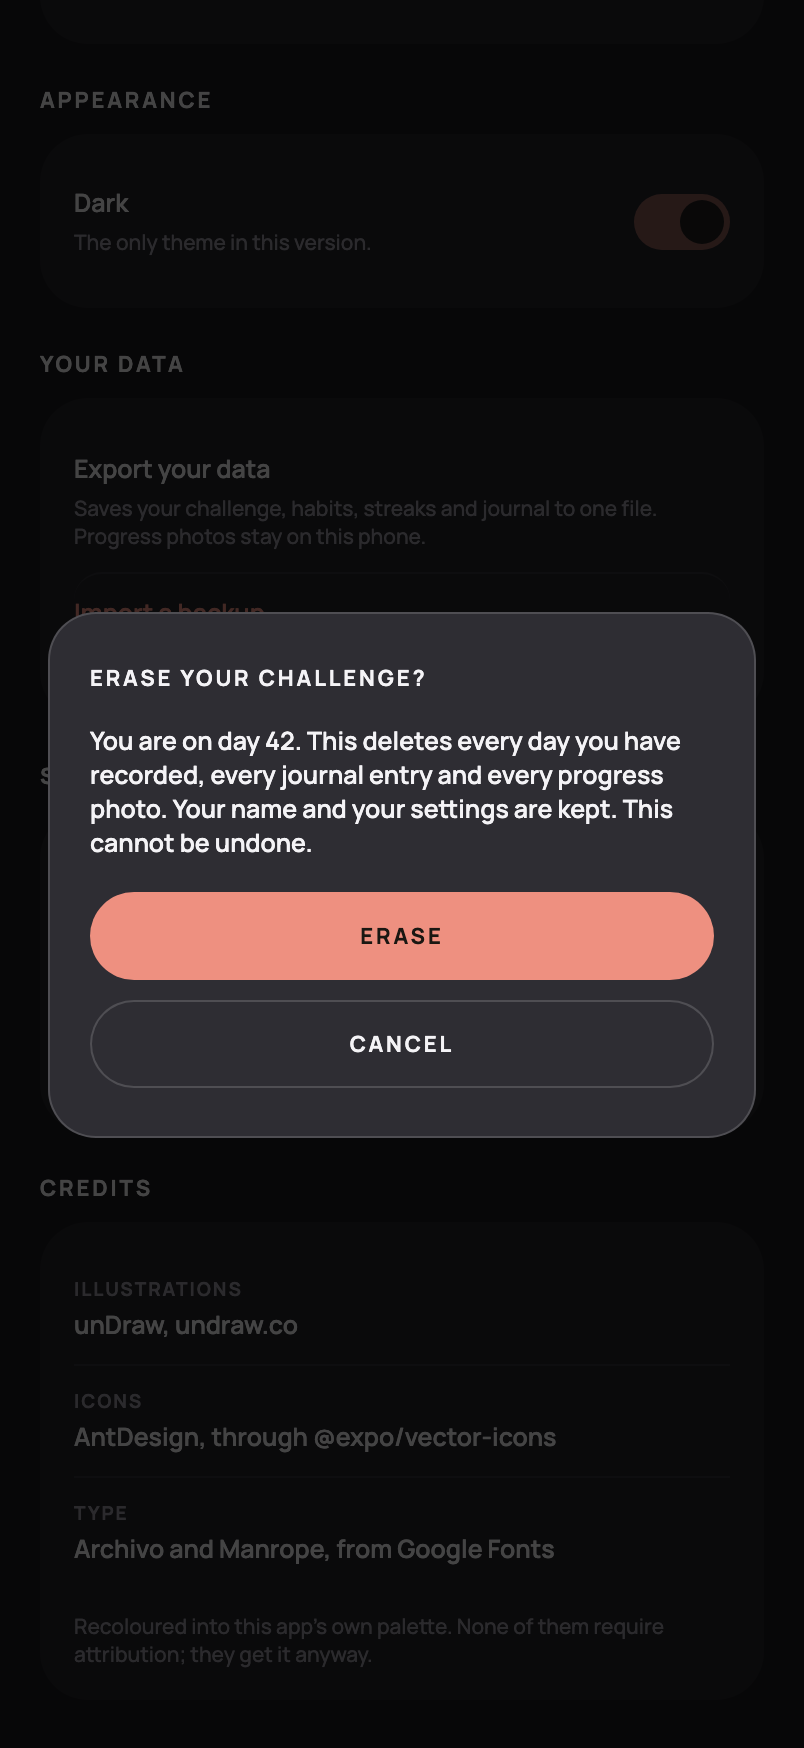
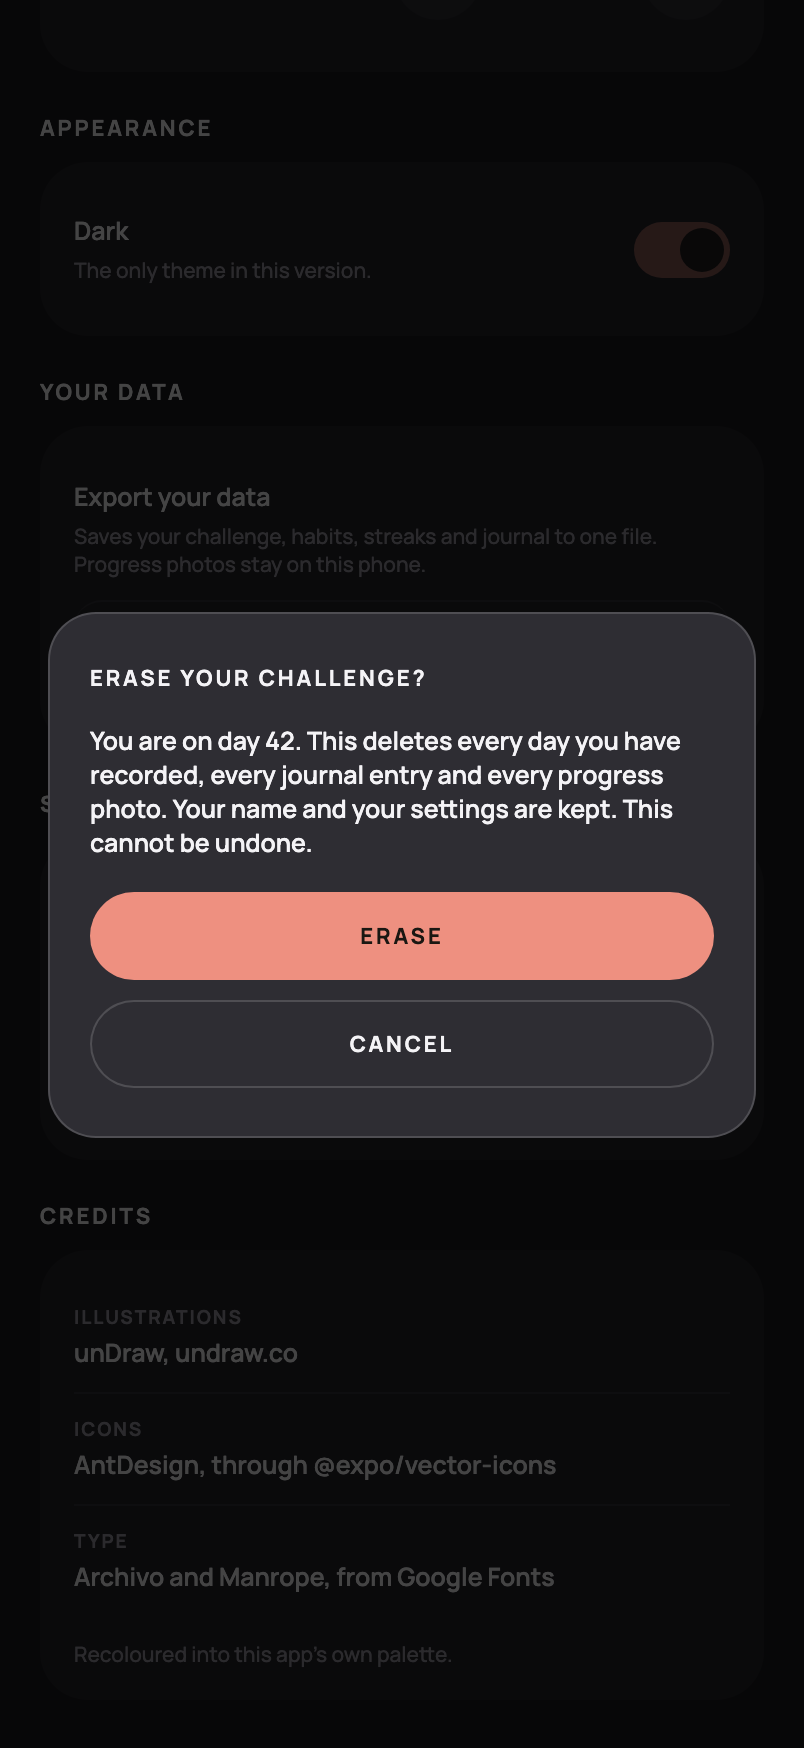
fix(import,i18n): keep the photos on import, and say "1 workout" not "1 workouts"
Three calls you made on the review, applied.

- An import no longer deletes the progress photos. A backup deliberately does
  not carry them, so deleting them loses pictures the file cannot put back.
  The cost is documented at the call site: photos are keyed by date alone, so
  importing a backup from another device can show an imported day a photo that
  belonged to the challenge it replaced.
- decideHabitNameKey picks a singular copy key when a habit's target is one,
  which is what Easy and Medium do to the workouts. Keyed on the number rather
  than on the habit id, so any future mode that drops another habit to one gets
  the right words without a second branch. Hard keeps the wording of
  Docs/rules.jpeg verbatim in both locales.
- The credits note drops its aside and states only the fact.

tests/unit/i18n/habitNames.test.ts walks every habit of every challenge in both
locales and fails on a name that resolves to a raw key or leaves a placeholder
unfilled, which is what would reach the screen if a nameSingle went missing.

diff --git a/tests/unit/features/settings/dataTransfer.test.tsx b/tests/unit/features/settings/dataTransfer.test.tsx
@@ -248,8 +248,8 @@ describe('choosing a file to import', () => {
             IMPORTED_START,
             'en',
           )}. Importing replaces your current challenge, every day you have recorded and every ` +
-            'journal entry with what is in the file, and deletes your progress photos, which a ' +
-            'backup never carries. This cannot be undone.',
+            'journal entry with what is in the file. Your progress photos stay where they are. ' +
+            'This cannot be undone.',
         ),
       ).toBeTruthy();
     });
@@ -340,10 +340,8 @@ describe('confirming the import', () => {
     await waitFor(() => expect(mockRouter.replace).toHaveBeenCalledWith('/today'));
   });
 
-  it('deletes the progress photos, which belonged to the challenge it just replaced', async () => {
+  it('leaves the progress photos alone, since a backup cannot put one back', async () => {
     const harness = renderSettings();
-    // A photo is keyed by date alone, so this one would be matched to an imported day and shown
-    // as that day's body photo.
     await harness.files.write('photos/2026-09-01.jpg', 'file:///camera/one.jpg');
     await waitForSettings();
     await offerBackup(harness, buildBackup());
@@ -352,30 +350,17 @@ describe('confirming the import', () => {
     fireEvent.press(screen.getByLabelText(REPLACE));
 
     await waitFor(() => expect(mockRouter.replace).toHaveBeenCalled());
-    expect(harness.files.snapshot()['photos/2026-09-01.jpg']).toBeUndefined();
+    expect(harness.files.snapshot()['photos/2026-09-01.jpg']).toBe('file:///camera/one.jpg');
   });
 
-  it('says the photos go, so the confirmation names everything that is lost', async () => {
+  it('says the photos stay, so the confirmation is accurate about them', async () => {
     const harness = renderSettings();
     await waitForSettings();
 
     await offerBackup(harness, buildBackup());
 
     await waitFor(() => {
-      expect(screen.getByText(/deletes your progress photos/)).toBeTruthy();
-    });
-  });
-
-  it('still imports when the photo directory cannot be removed', async () => {
-    const harness = renderSettings();
-    await waitForSettings();
-    await offerBackup(harness, buildBackup());
-    await waitFor(() => expect(screen.getByLabelText(REPLACE)).toBeTruthy());
-
-    fireEvent.press(screen.getByLabelText(REPLACE));
-
-    await waitFor(() => {
-      expect(readKey(harness.store, StorageKeyEnum.CHALLENGE)).toEqual(IMPORTED_CHALLENGE);
+      expect(screen.getByText(/Your progress photos stay where they are/)).toBeTruthy();
     });
   });
 });

diff --git a/tests/unit/i18n/habitNames.test.ts b/tests/unit/i18n/habitNames.test.ts
@@ -1,0 +1,62 @@
+import { decideHabitNameKey, describeHabitTargets, resolveHabitsForMode } from '@/domain/habits';
+import { HabitIdEnum } from '@/domain/habitIds';
+import { CHALLENGE_MODES, ChallengeModeEnum } from '@/domain/modes';
+import { el, en, translate } from '@/i18n';
+
+const LOCALES = [
+  ['en', en],
+  ['el', el],
+] as const;
+
+describe('a habit name', () => {
+  it.each(LOCALES)('resolves to real copy in %s, in every challenge', (_name, translations) => {
+    const unresolved = CHALLENGE_MODES.flatMap((mode) =>
+      resolveHabitsForMode(mode)
+        .map((habit) =>
+          translate(translations, decideHabitNameKey(habit), describeHabitTargets(habit)),
+        )
+        // A missing key comes back as the key itself, which is what would reach the screen.
+        .filter((name) => name.startsWith('habits.')),
+    );
+
+    expect(unresolved).toEqual([]);
+  });
+
+  it.each(LOCALES)('leaves no placeholder unfilled in %s', (_name, translations) => {
+    const unfilled = CHALLENGE_MODES.flatMap((mode) =>
+      resolveHabitsForMode(mode)
+        .map((habit) =>
+          translate(translations, decideHabitNameKey(habit), describeHabitTargets(habit)),
+        )
+        .filter((name) => name.includes('{')),
+    );
+
+    expect(unfilled).toEqual([]);
+  });
+});
+
+describe('a habit whose target is one', () => {
+  const NOT_IN_THIS_CHALLENGE = 'the workouts rule is not in this challenge';
+
+  const readWorkoutName = (mode: (typeof CHALLENGE_MODES)[number]): string => {
+    const workouts = resolveHabitsForMode(mode).find((habit) => habit.id === HabitIdEnum.WORKOUTS);
+
+    if (workouts === undefined) {
+      return NOT_IN_THIS_CHALLENGE;
+    }
+
+    return translate(en, decideHabitNameKey(workouts), describeHabitTargets(workouts));
+  };
+
+  it('takes the singular wording rather than "1 workouts"', () => {
+    expect(readWorkoutName(ChallengeModeEnum.EASY)).toBe('1 workout of 30 minutes');
+  });
+
+  it('still takes the plural wording where the target is more than one', () => {
+    expect(readWorkoutName(ChallengeModeEnum.HARD)).toBe('2 workouts, 45 minutes each');
+  });
+
+  it('keeps the Hard wording exactly as Docs/rules.jpeg has it', () => {
+    expect(translate(el, 'habits.workouts.name', { target: 2 })).toBe('2 προπονήσεις την ημέρα');
+  });
+});

diff --git a/src/i18n/locales/el.ts b/src/i18n/locales/el.ts
@@ -78,7 +78,8 @@ export const el: Translations = {
       description: 'Κατανάλωση minimum {target} λίτρα νερό την ημέρα.',
     },
     [HabitIdEnum.WORKOUTS]: {
-      name: 'Προπονήσεις {minutes} λεπτών',
+      name: '{target} προπονήσεις την ημέρα',
+      nameSingle: '{target} προπόνηση την ημέρα',
       description: 'Minimum {minutes} λεπτά η καθεμία, μία ιδανικά εκτός σπιτιού.',
     },
     [HabitIdEnum.SKILL]: {
@@ -374,8 +375,8 @@ export const el: Translations = {
     confirmImportBody:
       'Το αντίγραφο περιέχει πρόκληση {mode} που ξεκίνησε στις {date}. Η εισαγωγή αντικαθιστά ' +
       'την τρέχουσα πρόκληση, κάθε ημέρα που έχεις καταγράψει και κάθε καταχώρηση ημερολογίου ' +
-      'με ό,τι υπάρχει στο αρχείο, και διαγράφει τις φωτογραφίες προόδου σου, τις οποίες ένα ' +
-      'αντίγραφο δεν περιέχει ποτέ. Δεν αναιρείται.',
+      'με ό,τι υπάρχει στο αρχείο. Οι φωτογραφίες προόδου μένουν εκεί που είναι. Δεν ' +
+      'αναιρείται.',
     confirmImport: 'Αντικατάσταση',
     rejectNotJson: 'Το αρχείο δεν διαβάζεται ως JSON, οπότε δεν είναι αντίγραφο ασφαλείας.',
     rejectNotBackup: 'Το αρχείο δεν φτιάχτηκε από το 75 G-ANG.',
@@ -412,7 +413,7 @@ export const el: Translations = {
     iconsSource: 'AntDesign, μέσω @expo/vector-icons',
     fontsLabel: 'Γραμματοσειρές',
     fontsSource: 'Archivo και Manrope, από τα Google Fonts',
-    note: 'Χρωματίστηκαν ξανά στην παλέτα αυτής της εφαρμογής. Καμία δεν απαιτεί αναφορά· την παίρνει έτσι κι αλλιώς.',
+    note: 'Χρωματίστηκαν ξανά στην παλέτα αυτής της εφαρμογής.',
   },
   common: {
     start: 'Έναρξη',

diff --git a/src/features/settings/_hooks/useDataTransfer.ts b/src/features/settings/_hooks/useDataTransfer.ts
@@ -3,7 +3,6 @@ import { useState } from 'react';
 import { buildBackupFileName, buildExportEnvelope } from '@/domain/export/schema';
 import { ImportPayload, ImportRejection, validateImport } from '@/domain/export/validateImport';
 import { buildBackupPath } from '@/storage/backupPaths';
-import { PHOTO_DIRECTORY } from '@/storage/photoPaths';
 import { Repositories } from '@/storage/repositories/buildRepositories';
 import { useRepositories } from '@/storage/repositoryContext';
 import { toLocalIsoDate } from '@/utils/DateUtility';
@@ -43,8 +42,13 @@ const JSON_INDENT = 2;
  * to the share sheet, and touches nothing the challenge is made of.
  *
  * Import validates the whole file before a single byte is written, and then still waits for an
- * explicit confirmation — it replaces everything on the device, progress photos included, and the
- * user is entitled to see what they are about to lose first.
+ * explicit confirmation — it replaces every stored record, and the user is entitled to see what
+ * they are about to lose first.
+ *
+ * Progress photos are deliberately left where they are. A backup never carries them, so deleting
+ * them would lose pictures the file cannot put back. The cost is that photos are keyed by date
+ * alone: importing a backup from another device onto one that already has photos can show an
+ * imported day a photo that belonged to the challenge it replaced.
  */
 export const useDataTransfer = () => {
   const repositories = useRepositories();
@@ -127,12 +131,6 @@ export const useDataTransfer = () => {
 
       return false;
     }
-
-    // Photos are keyed by date and nothing else, so a photo left behind from the challenge this
-    // import just replaced would be matched to an imported day and shown as that day's body
-    // photo. The backup never carries photos, so there is nothing to put back — but showing the
-    // wrong one is worse than showing the placeholder the weigh-in screen already falls back to.
-    await repositories.files.removeDirectory(PHOTO_DIRECTORY).catch(() => undefined);
 
     setView(IDLE);
 

diff --git a/src/i18n/locales/en.ts b/src/i18n/locales/en.ts
@@ -74,7 +74,8 @@ export const en = {
       description: 'Minimum {target} litres across the day.',
     },
     [HabitIdEnum.WORKOUTS]: {
-      name: 'Workouts of {minutes} minutes',
+      name: '{target} workouts, {minutes} minutes each',
+      nameSingle: '{target} workout of {minutes} minutes',
       description: 'At least {minutes} minutes each. One outdoors if you can.',
     },
     [HabitIdEnum.SKILL]: {
@@ -367,8 +368,7 @@ export const en = {
     confirmImportBody:
       'The backup holds a {mode} challenge that started on {date}. Importing replaces your ' +
       'current challenge, every day you have recorded and every journal entry with what is in ' +
-      'the file, and deletes your progress photos, which a backup never carries. This cannot ' +
-      'be undone.',
+      'the file. Your progress photos stay where they are. This cannot be undone.',
     confirmImport: 'Replace',
     rejectNotJson: 'That file could not be read as JSON, so it is not a backup.',
     rejectNotBackup: 'That file was not made by 75 G-ANG.',
@@ -403,7 +403,7 @@ export const en = {
     iconsSource: 'AntDesign, through @expo/vector-icons',
     fontsLabel: 'Type',
     fontsSource: 'Archivo and Manrope, from Google Fonts',
-    note: 'Recoloured into this app\u2019s own palette. None of them require attribution; they get it anyway.',
+    note: 'Recoloured into this app\u2019s own palette.',
   },
   common: {
     start: 'Start',

diff --git a/src/features/today/_components/RuleList.tsx b/src/features/today/_components/RuleList.tsx
@@ -2,7 +2,7 @@ import { StyleSheet, View } from 'react-native';
 
 import { Card } from '@/components/Card';
 import { decideHabitIsComplete } from '@/domain/completion';
-import { describeHabitTargets, Habit } from '@/domain/habits';
+import { decideHabitNameKey, describeHabitTargets, Habit } from '@/domain/habits';
 import { ChallengeMode } from '@/domain/modes';
 import { HabitRecord } from '@/domain/types';
 import { useTranslation } from '@/i18n';
@@ -57,7 +57,7 @@ export const RuleList = ({
           <RuleRow
             key={habit.id}
             habitId={habit.id}
-            name={t(`habits.${habit.id}.name`, describeHabitTargets(habit))}
+            name={t(decideHabitNameKey(habit), describeHabitTargets(habit))}
             meta={describe(habit)}
             isDone={decideHabitIsComplete(
               habit.id,
@@ -65,7 +65,7 @@ export const RuleList = ({
               mode,
             )}
             isFirst={index === 0}
-            accessibilityLabel={t(`habits.${habit.id}.name`, describeHabitTargets(habit))}
+            accessibilityLabel={t(decideHabitNameKey(habit), describeHabitTargets(habit))}
             onPress={onPressRule}
           />
         ))}

diff --git a/src/features/habit-detail/HabitDetailScreen.tsx b/src/features/habit-detail/HabitDetailScreen.tsx
@@ -5,7 +5,7 @@ import { ScrollView, StyleSheet, Text, View } from 'react-native';
 import { Screen } from '@/components/Screen';
 import { BackButton } from '@/components/BackButton';
 import { decideHabitIsComplete } from '@/domain/completion';
-import { describeHabitTargets } from '@/domain/habits';
+import { decideHabitNameKey, describeHabitTargets } from '@/domain/habits';
 import { decideTimerIsRunning } from '@/domain/timers';
 import { useTranslation } from '@/i18n';
 import { spacing } from '@/theme/spacing';
@@ -78,7 +78,7 @@ export const HabitDetailScreen = ({ habitId }: HabitDetailScreenProps) => {
       <ScrollView contentContainerStyle={styles.content} showsVerticalScrollIndicator={false}>
         <View style={styles.heading}>
           <Text style={styles.title}>
-            {t(`habits.${habit.id}.name`, describeHabitTargets(habit))}
+            {t(decideHabitNameKey(habit), describeHabitTargets(habit))}
           </Text>
           <Text style={styles.description}>
             {t(`habits.${habit.id}.description`, describeHabitTargets(habit))}

diff --git a/src/domain/habits.ts b/src/domain/habits.ts
@@ -191,3 +191,21 @@ export const describeHabitTargets = (habit: Habit): Record<string, number> => ({
   target: habit.targetValue ?? 0,
   minutes: habit.sessionMinutes ?? 0,
 });
+
+/** A target of one. "1 workouts" is wrong, and the translation layer has no plural rules. */
+const SINGULAR_TARGET = 1;
+
+/**
+ * Which copy key a habit's name comes from.
+ *
+ * Keyed on the number rather than on the habit id: Easy and Medium drop the workouts to a single
+ * session, and any future mode that drops another habit to one gets the right words for free.
+ * `tests/unit/i18n/habitNames.test.ts` pins that every habit which can reach one has the key.
+ */
+export const decideHabitNameKey = (habit: Habit): string => {
+  if (habit.targetValue === SINGULAR_TARGET) {
+    return `habits.${habit.id}.nameSingle`;
+  }
+
+  return `habits.${habit.id}.name`;
+};
